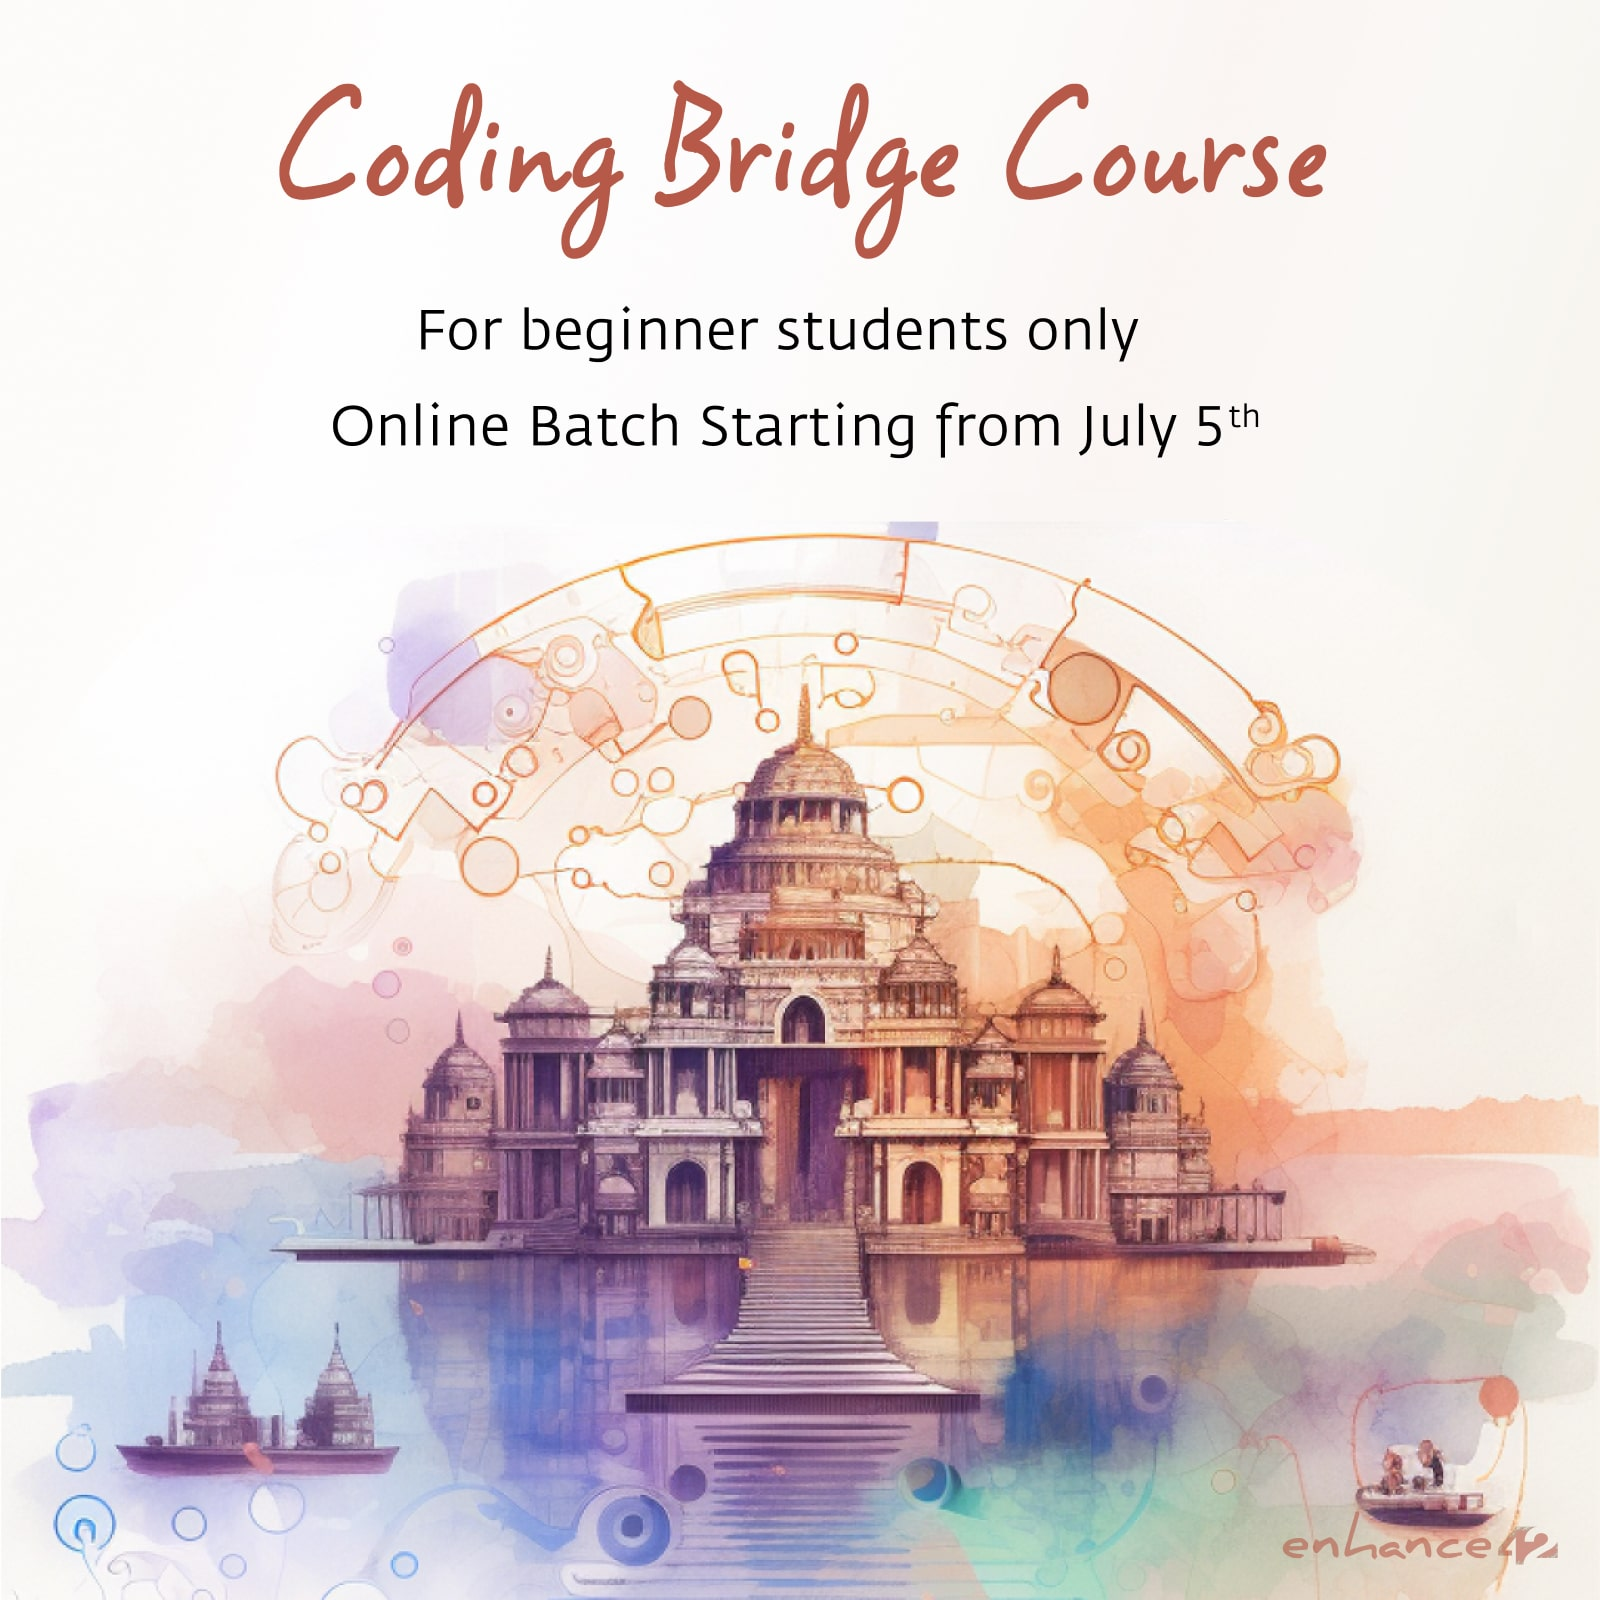
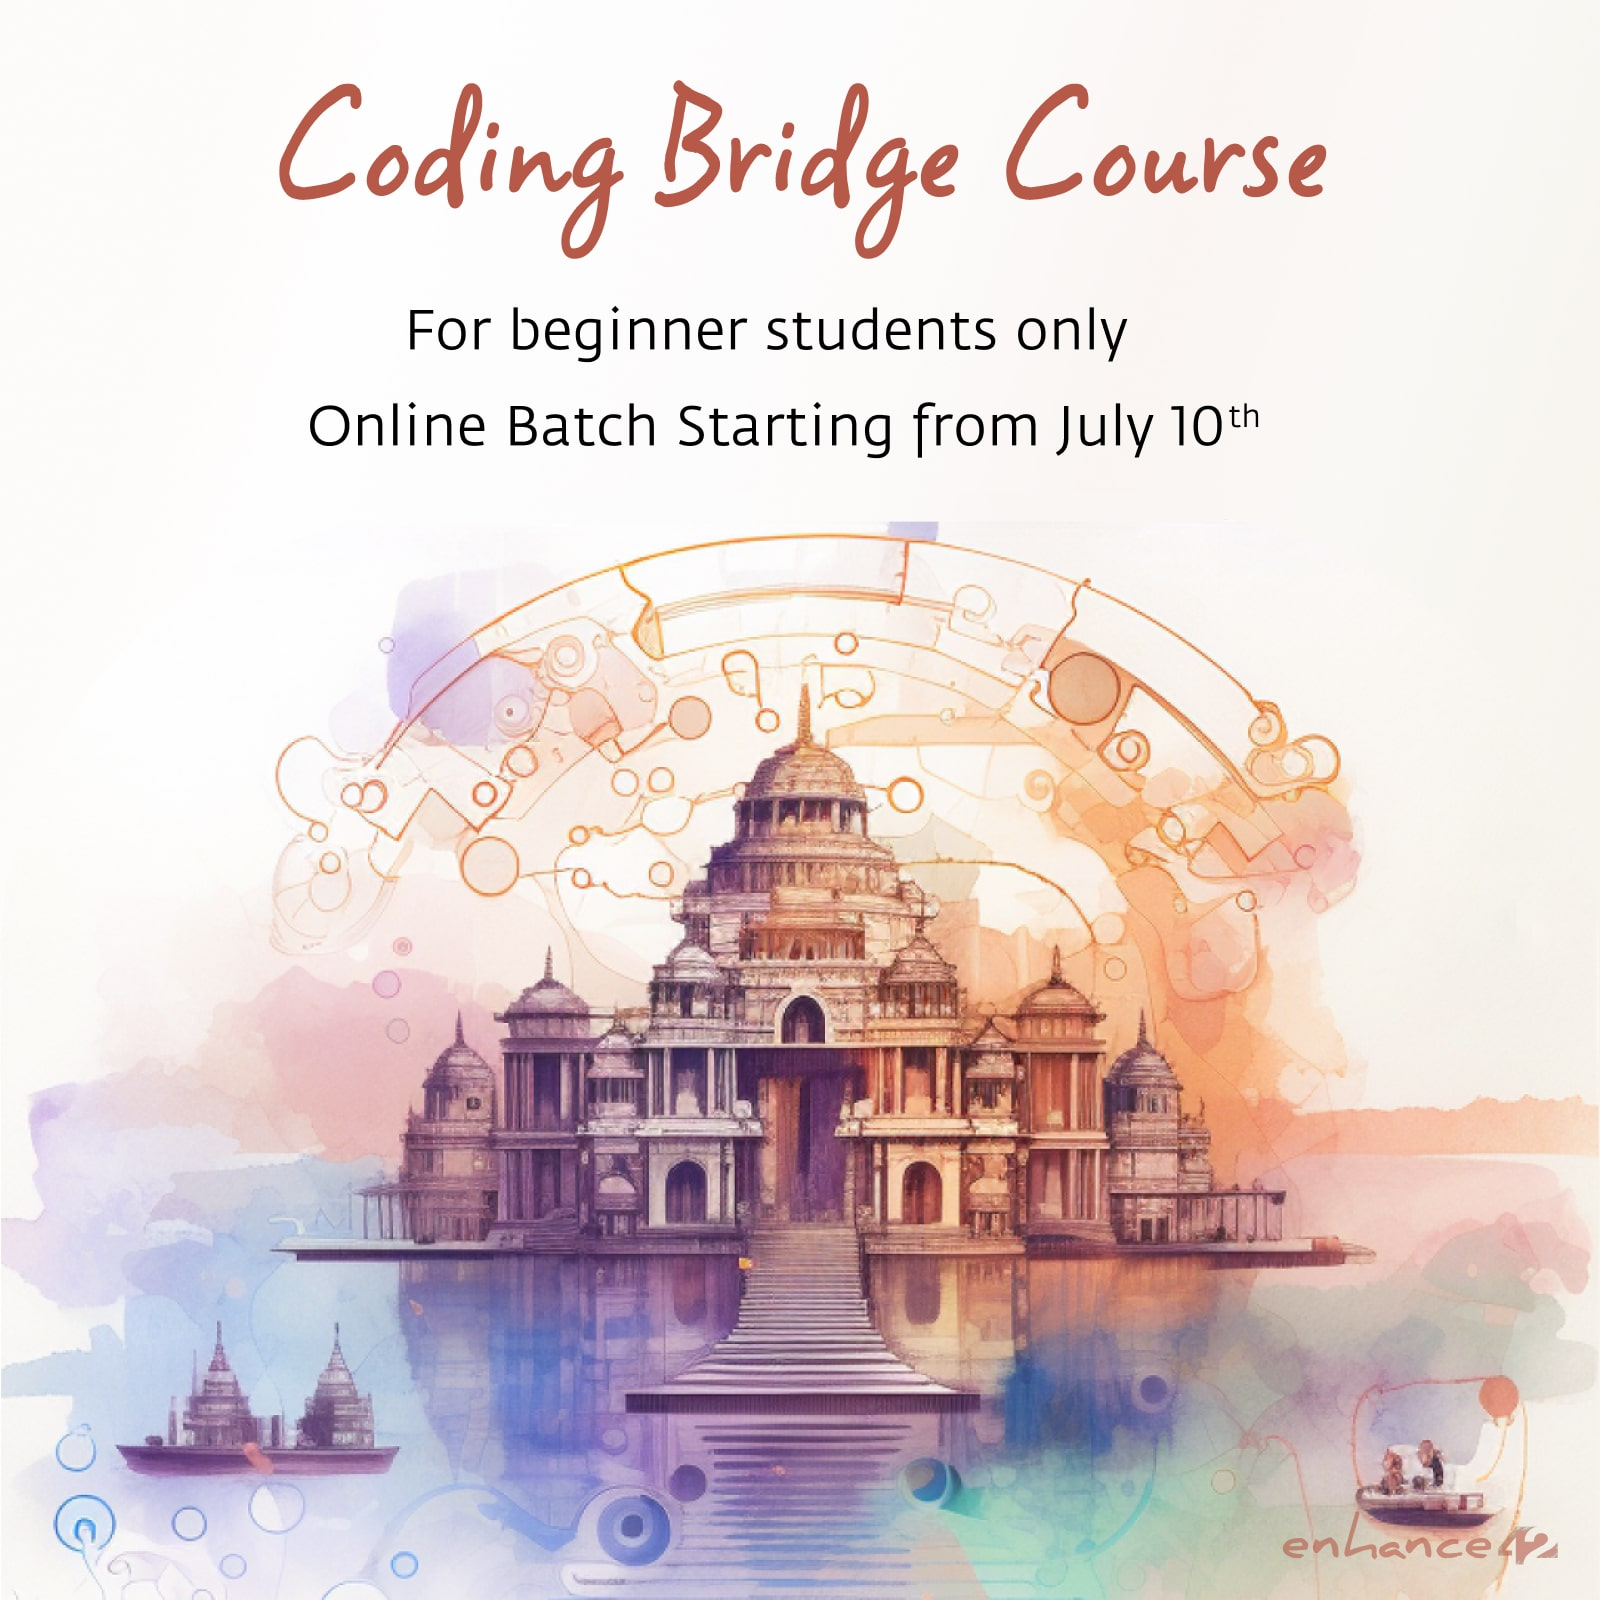
July 10th starting date

Changed region(s): [[0.1875, 0.25, 0.7812, 0.2812], [0.25, 0.1875, 0.7188, 0.2188]]

diff --git a/bridge/index.html b/bridge/index.html
@@ -9,9 +9,9 @@
   <meta http-equiv="X-UA-Compatible" content="IE=edge" />
   <meta name="viewport" content="width=device-width, initial-scale=1" />
 
-  <title>Enhance42 - Coding Bridge Course | July 5th, 2023 | For beginner students only</title>
+  <title>Enhance42 - Coding Bridge Course | July 10th, 2023 | For beginner students only</title>
 
-  <meta name="description" content="Enhance42 - Coding Bridge Course | July 5th, 2023 | For beginner students only" />
+  <meta name="description" content="Enhance42 - Coding Bridge Course | July 10th, 2023 | For beginner students only" />
 
   <meta name="twitter:card" content="summary_large_image" />
   <meta name="twitter:image" content="https://e42.dev/assets/general/july-batch.jpg" />
@@ -19,7 +19,7 @@
 
   <meta property="og:title" content="Enhance42" />
 
-  <meta property="og:description" content="Enhance42 - Coding Bridge Course | July 5th, 2023 | For beginner students only"/>
+  <meta property="og:description" content="Enhance42 - Coding Bridge Course | July 10th, 2023 | For beginner students only"/>
 
   <meta property="og:url" content="https://e42.dev/bridge/" />
 

diff --git a/index.html b/index.html
@@ -9,9 +9,9 @@
   <meta http-equiv="X-UA-Compatible" content="IE=edge" />
   <meta name="viewport" content="width=device-width, initial-scale=1" />
 
-  <title>Enhance42 - Coding Bridge Course | July 5th, 2023 | For beginner students only</title>
+  <title>Enhance42 - Coding Bridge Course | July 10th, 2023 | For beginner students only</title>
 
-  <meta name="description" content="Enhance42 - Coding Bridge Course | July 5th, 2023 | For beginner students only" />
+  <meta name="description" content="Enhance42 - Coding Bridge Course | July 10th, 2023 | For beginner students only" />
 
   <meta name="twitter:card" content="summary_large_image" />
   <meta name="twitter:image" content="https://e42.dev/assets/general/july-batch.jpg" />
@@ -19,7 +19,7 @@
 
   <meta property="og:title" content="Enhance42" />
 
-  <meta property="og:description" content="Enhance42 - Coding Bridge Course | July 5th, 2023 | For beginner students only"/>
+  <meta property="og:description" content="Enhance42 - Coding Bridge Course | July 10th, 2023 | For beginner students only"/>
 
   <meta property="og:url" content="https://e42.dev/bridge/" />
 

diff --git a/demo/index.html b/demo/index.html
@@ -9,9 +9,9 @@
   <meta http-equiv="X-UA-Compatible" content="IE=edge" />
   <meta name="viewport" content="width=device-width, initial-scale=1" />
 
-  <title>Enhance42 - Coding Bridge Course | July 5th, 2023 | For beginner students only</title>
+  <title>Enhance42 - Coding Bridge Course | July 10th, 2023 | For beginner students only</title>
 
-  <meta name="description" content="Enhance42 - Coding Bridge Course | July 5th, 2023 | For beginner students only" />
+  <meta name="description" content="Enhance42 - Coding Bridge Course | July 10th, 2023 | For beginner students only" />
 
   <meta name="twitter:card" content="summary_large_image" />
   <meta name="twitter:image" content="https://e42.dev/assets/general/july-batch.jpg" />
@@ -19,7 +19,7 @@
 
   <meta property="og:title" content="Enhance42" />
 
-  <meta property="og:description" content="Enhance42 - Coding Bridge Course | July 5th, 2023 | For beginner students only"/>
+  <meta property="og:description" content="Enhance42 - Coding Bridge Course | July 10th, 2023 | For beginner students only"/>
 
   <meta property="og:url" content="https://e42.dev/demo/" />
 
